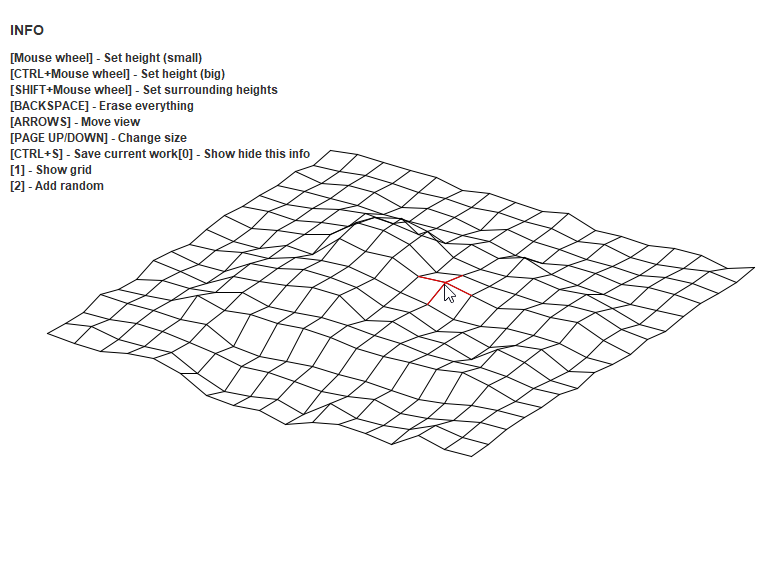
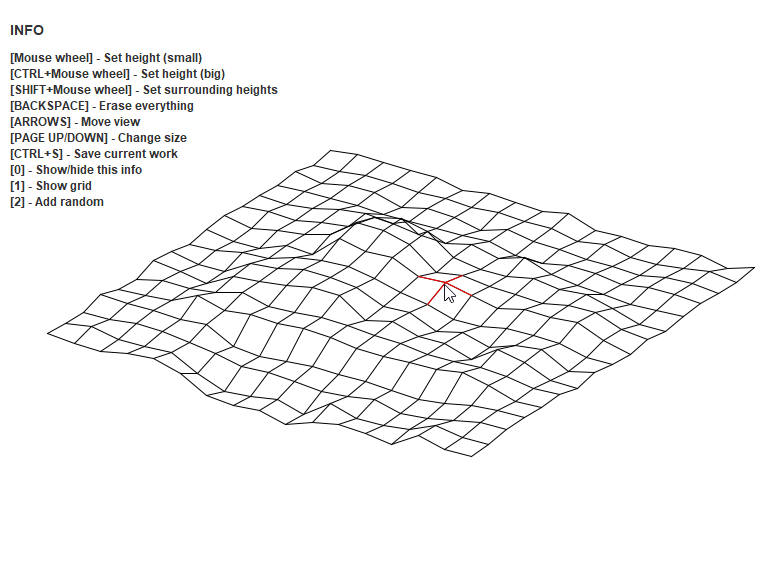
v1.0.1 : Updated preview + some fixes

Changed region(s): [[0.0, 0.2727, 0.1837, 0.3939], [0.2143, 0.2424, 0.398, 0.303]]

diff --git a/src/main/java/fr/klemek/mapping/MainWindow.java b/src/main/java/fr/klemek/mapping/MainWindow.java
@@ -9,7 +9,7 @@ import javax.swing.*;
 class MainWindow extends JFrame {
 
     static final String FILE_NAME = "mapping.csv";
-    private static final String VERSION = "1.0";
+    private static final String VERSION = "1.0.1";
     private static final int DEFAULT_SIZE = 17;
     private static final String INFO_TEXT = "" +
             "<html>" +
@@ -20,8 +20,8 @@ class MainWindow extends JFrame {
             "[BACKSPACE] - Erase everything<br>" +
             "[ARROWS] - Move view<br>" +
             "[PAGE UP/DOWN] - Change size<br/>" +
-            "[CTRL+S] - Save current work" +
-            "[0] - Show hide this info<br>" +
+            "[CTRL+S] - Save current work<br>" +
+            "[0] - Show/hide this info<br>" +
             "[1] - Show grid<br>" +
             "[2] - Add random<br>";
     private MainPanel mp;
